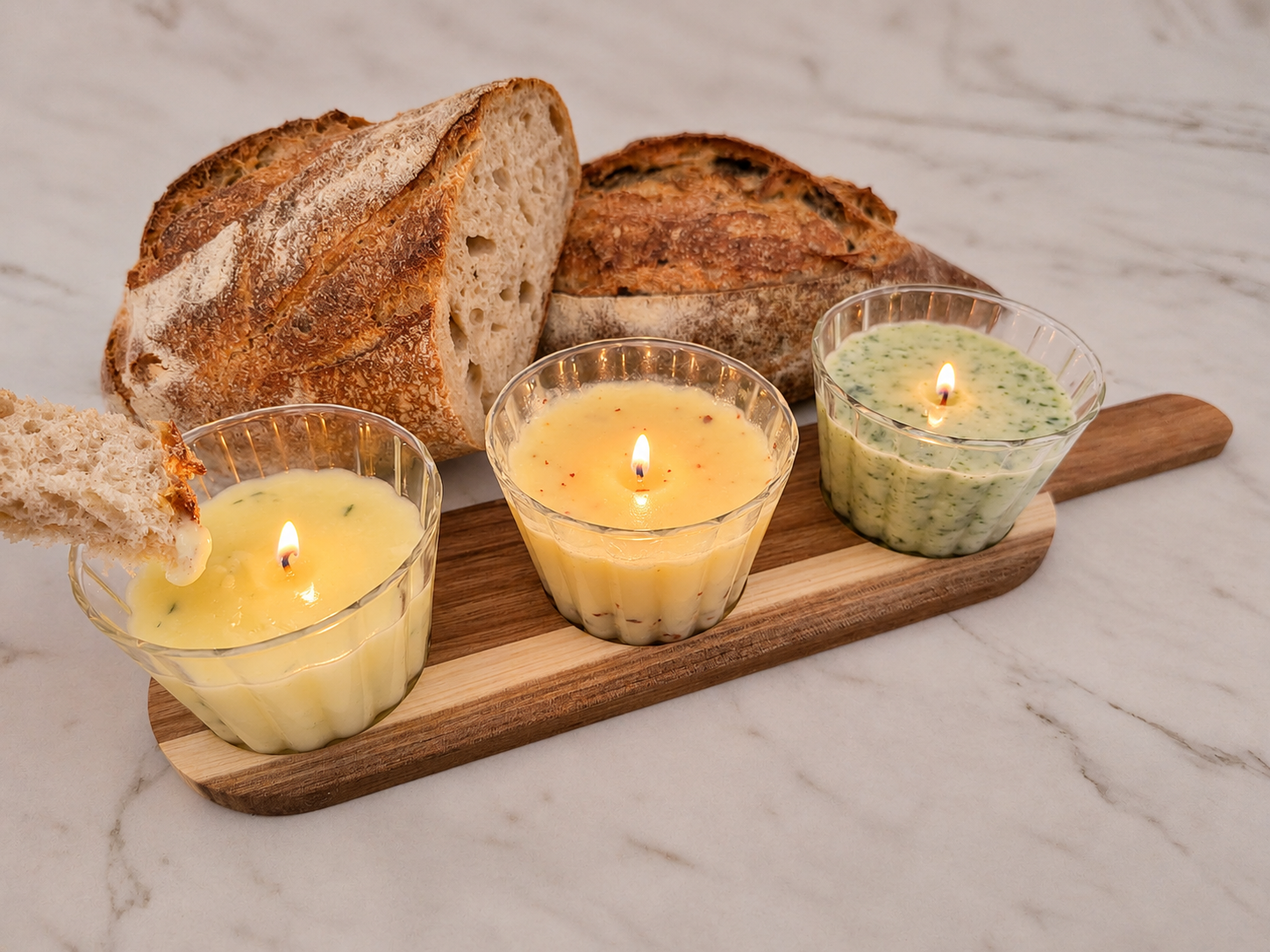
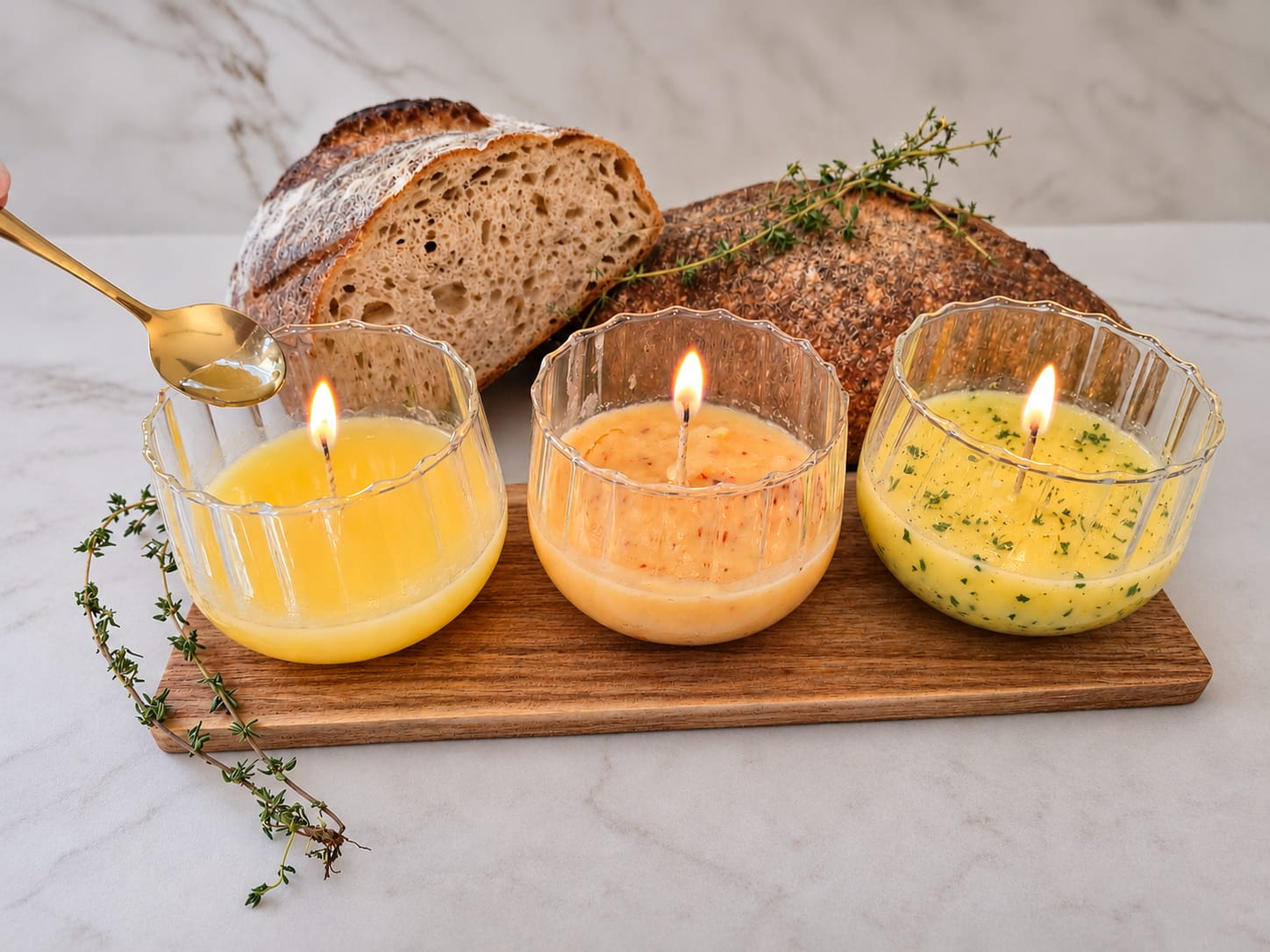
Update trio photo and product details

diff --git a/deploy/index.html b/deploy/index.html
@@ -198,7 +198,7 @@
     .pickup-select{min-height:48px;font-weight:600}
     @media(max-width:760px){.cart-row{grid-template-columns:minmax(0,1fr) auto auto;gap:8px}.cart-row-price{grid-column:auto}.cart-remove{font-size:12px}}
     @media(max-width:390px){.cart-row{grid-template-columns:minmax(0,1fr) auto}.cart-remove{grid-column:1 / -1;justify-self:start;padding:3px 0}}
-  .how-section{padding:16px 26px;background:var(--sage-dark);color:#fffaf1}.how-inner{max-width:900px;text-align:center;margin:auto}.how-section h2{color:#fffaf1;font-size:clamp(30px,3.4vw,38px);margin:0}.how-steps{display:grid;grid-template-columns:repeat(3,minmax(0,1fr));gap:22px;margin-top:12px}.how-step{display:flex;flex-direction:column;align-items:center;gap:7px}.how-icon{width:30px;height:30px;stroke:currentColor;stroke-width:1.6;stroke-linecap:round;stroke-linejoin:round}.how-step p{margin:0;color:#fffaf1;line-height:1.45;font-size:18px;font-weight:700}@media(max-width:760px){.how-section{padding:13px 19px}.how-section h2{font-size:29px}.how-steps{gap:8px;margin-top:10px}.how-icon{width:25px;height:25px}.how-step{gap:5px}.how-step p{font-size:15px;line-height:1.4}}</style>
+  .how-section{padding:16px 26px;background:var(--sage-dark);color:#fffaf1}.how-inner{max-width:900px;text-align:center;margin:auto}.how-section h2{color:#fffaf1;font-size:clamp(30px,3.4vw,38px);margin:0}.how-steps{display:grid;grid-template-columns:repeat(3,minmax(0,1fr));gap:22px;margin-top:12px}.how-step{display:flex;flex-direction:column;align-items:center;gap:7px}.how-icon{display:grid;place-items:center;width:30px;height:30px;border:1.5px solid currentColor;border-radius:50%;font-size:16px;font-weight:700;line-height:1}.how-step p{margin:0;color:#fffaf1;line-height:1.45;font-size:18px;font-weight:700}@media(max-width:760px){.how-section{padding:13px 19px}.how-section h2{font-size:29px}.how-steps{gap:8px;margin-top:10px}.how-icon{width:25px;height:25px;font-size:14px}.how-step{gap:5px}.how-step p{font-size:15px;line-height:1.4}}</style>
 </head>
 <body data-style="soft">
 <div class="site">
@@ -210,8 +210,8 @@
       <div class="hero-copy-wrap"><h1>מדליקים.<br><em>טובלים.</em><br>מתענגים.</h1><p class="hero-copy">נרות חמאה בעבודת יד, מחמאה אמיתית, עשבי תיבול טריים ותבלינים. תוספת מיוחדת לשולחן אירוח ומתנה טעימה להביא כשמתארחים.</p><div class="hero-actions"><a class="button" href="#boxes">לגלות את המארזים</a><a class="text-link" href="#how">איך זה עובד? ↓</a></div><div class="hero-note"><b>✦</b><span>מכינים בעבודת יד · מלאי מוגבל</span></div></div>
       <div class="hero-art hero-photo" aria-label="מארז זוג נרות חמאה"><img class="hero-photo-image" src="two-candles-photo.png" alt="מארז זוג נרות חמאה בעבודת יד עם לחם כפרי"><span class="hero-flame hero-flame-one" aria-hidden="true"></span><span class="hero-flame hero-flame-two" aria-hidden="true"></span><svg viewBox="0 0 520 430" role="img" aria-label="שלושה נרות חמאה עם עשבי תיבול"><ellipse cx="260" cy="363" rx="192" ry="24" fill="#755c37" opacity=".12"/><path d="M92 315h340l-20 35H112z" fill="#c8ad77"/><path d="M108 310h308v20H108z" fill="#f2e4bd" stroke="#c7b27f" stroke-width="2"/><g transform="translate(130 0)"><rect x="0" y="125" width="68" height="185" rx="15" fill="#f2cf6c"/><ellipse cx="34" cy="130" rx="34" ry="13" fill="#ffedab"/><path d="M34 124c-10-17 7-27 0-42 19 16 20 29 0 42" fill="#a64232"/><path d="M34 121c-4-10 4-14 1-20 9 9 5 15-1 20" fill="#f6a34f"/><g fill="#78865d"><ellipse cx="18" cy="193" rx="12" ry="5" transform="rotate(-27 18 193)"/><ellipse cx="48" cy="224" rx="12" ry="5" transform="rotate(31 48 224)"/><ellipse cx="20" cy="262" rx="12" ry="5" transform="rotate(-22 20 262)"/></g><path d="M15 203l39 45M50 228l-28 40" stroke="#6c7956" stroke-width="2"/></g><g transform="translate(226 0)"><rect x="0" y="92" width="72" height="218" rx="16" fill="#f6db83"/><ellipse cx="36" cy="98" rx="36" ry="14" fill="#fff0b9"/><path d="M36 91c-10-18 8-29 0-45 20 18 20 31 0 45" fill="#9c3e36"/><path d="M36 88c-4-10 4-14 1-20 9 9 5 15-1 20" fill="#f6a34f"/><g fill="#8b955e"><ellipse cx="19" cy="171" rx="12" ry="5" transform="rotate(-24 19 171)"/><ellipse cx="52" cy="211" rx="13" ry="5" transform="rotate(27 52 211)"/><ellipse cx="20" cy="259" rx="12" ry="5" transform="rotate(-25 20 259)"/></g><path d="M18 181l39 46M54 217l-31 49" stroke="#687650" stroke-width="2"/></g><g transform="translate(326 0)"><rect x="0" y="144" width="66" height="166" rx="15" fill="#efd080"/><ellipse cx="33" cy="149" rx="33" ry="12" fill="#ffedb1"/><path d="M33 143c-9-16 7-25 0-39 18 15 18 27 0 39" fill="#8c3340"/><path d="M33 140c-3-9 4-12 1-18 8 8 4 14-1 18" fill="#f6a34f"/><g fill="#79845b"><ellipse cx="15" cy="207" rx="12" cy="5" transform="rotate(-26 15 207)"/><ellipse cx="48" cy="242" rx="12" cy="5" transform="rotate(29 48 242)"/><ellipse cx="17" cy="277" rx="11" cy="5" transform="rotate(-18 17 277)"/></g><path d="M14 216l40 40M51 248l-30 38" stroke="#687650" stroke-width="2"/></g><circle cx="112" cy="131" r="7" fill="#fff5d4"/><circle cx="424" cy="179" r="5" fill="#fff5d4"/><path d="M431 87l5 11 11 5-11 5-5 11-5-11-11-5 11-5z" fill="#913e49"/></svg></div>
     </section>
-    <section class="section how-section" id="how"><div class="section-inner how-inner"><h2>איך זה עובד?</h2><div class="how-steps"><div class="how-step"><svg class="how-icon" viewBox="0 0 32 32" fill="none" aria-hidden="true"><path d="M16 3c-1 4-5 6-5 10a5 5 0 0 0 10 0c0-2-1-4-3-6 0 3-1 4-2 5-1-3 1-5 0-9Z"/><path d="M11 15h10v13H11zM9 28h14"/></svg><p>מדליקים את נר החמאה</p></div><div class="how-step"><svg class="how-icon" viewBox="0 0 32 32" fill="none" aria-hidden="true"><path d="M9 4h14M9 28h14M10 5c0 6 2 8 6 11-4 3-6 5-6 11M22 5c0 6-2 8-6 11 4 3 6 5 6 11"/><path d="M12 23h8M14 20h4"/></svg><p>מחכים טיפה שהיא תימס</p></div><div class="how-step"><svg class="how-icon" viewBox="0 0 32 32" fill="none" aria-hidden="true"><path d="M4 17c0-4 3-7 7-7 2-3 6-4 9-2 4 0 7 3 7 7v11H4V17Z"/><path d="M9 15c1-2 3-2 4 0M16 14c1-2 3-2 4 0M7 22h16M25 4 14 20M24 5l3 3"/></svg><p>טובלים סכין ומורחים על הלחם</p></div></div></div></section>
-    <section class="section products-section" id="boxes"><div class="section-inner"><div class="section-head"><div class="boxes-heading"><h2>בחרו מארז</h2><p class="box-includes">כל מארז כולל מגש עץ ונרות חמאה</p></div></div><div class="product-grid">
+    <section class="section how-section" id="how"><div class="section-inner how-inner"><h2>איך זה עובד?</h2><div class="how-steps"><div class="how-step"><span class="how-icon" aria-hidden="true">1</span><p>מדליקים את נר החמאה</p></div><div class="how-step"><span class="how-icon" aria-hidden="true">2</span><p>מחכים קצת שהחמאה תימס</p></div><div class="how-step"><span class="how-icon" aria-hidden="true">3</span><p>טובלים סכין ומורחים על הלחם</p></div></div></div></section>
+    <section class="section products-section" id="boxes"><div class="section-inner"><div class="section-head"><div class="boxes-heading"><h2>בחרו מארז</h2><p class="box-includes">כל מארז כולל מגש עץ, כפיות ונרות חמאה</p></div></div><div class="product-grid">
       <article class="product-card"><div class="product-image photo-ready photo-two"><span class="image-tag">מארז זוג נרות חמאה</span><img class="product-photo" src="two-candles-photo.png" alt="מארז שני נרות חמאה עם לחם כפרי לטבילה"><svg viewBox="0 0 420 270" role="img" aria-label="שני נרות חמאה עם עשבי תיבול"><ellipse cx="210" cy="239" rx="140" ry="14" fill="#755c37" opacity=".13"/><path d="M83 209h254l-14 22H97z" fill="#c8ad77"/><path d="M91 205h238v13H91z" fill="#f6e8c2" stroke="#c7b27f"/><g transform="translate(126 0)"><rect y="90" width="61" height="115" rx="13" fill="#efd17a"/><ellipse cx="30.5" cy="95" rx="30.5" ry="11" fill="#fff0b6"/><path d="M31 88c-9-14 6-23 0-35 16 13 16 24 0 35" fill="#9c3e36"/><g fill="#78865d"><ellipse cx="14" cy="143" rx="11" ry="4" transform="rotate(-25 14 143)"/><ellipse cx="45" cy="171" rx="11" ry="4" transform="rotate(24 45 171)"/></g><path d="M14 149l38 37M48 174l-29 29" stroke="#6c7956" stroke-width="2"/></g><g transform="translate(222 0)"><rect y="72" width="65" height="133" rx="13" fill="#f5d97e"/><ellipse cx="32.5" cy="77" rx="32.5" ry="11" fill="#fff1b9"/><path d="M33 70c-9-14 7-24 0-36 17 14 18 25 0 36" fill="#8c3340"/><g fill="#78865d"><ellipse cx="15" cy="130" rx="11" ry="4" transform="rotate(-25 15 130)"/><ellipse cx="48" cy="164" rx="11" ry="4" transform="rotate(24 48 164)"/></g><path d="M14 136l40 39M51 167l-30 35" stroke="#6c7956" stroke-width="2"/></g></svg></div><div class="product-details"><div class="product-titleline"><h3>מארז זוג נרות חמאה</h3><div class="price">₪120</div></div><div class="product-flavors"><b>הטעמים במארז</b><span>חמאת עשבי תיבול ושום</span><br><span>חמאת דבש וצ׳ילי</span></div><div class="product-bottom"><span class="small-note">2 נרות חמאה בעבודת יד<br>150 גרם בכל כלי · סה״כ 300 גרם</span><button class="button small order-link" data-product="pair">להזמנה</button></div></div></article>
       <article class="product-card"><div class="product-image photo-ready"><span class="image-tag">מארז שלישיית נרות חמאה</span><img class="product-photo" src="three-candles-photo.png" alt="מארז שלושה נרות חמאה עם לחם כפרי לטבילה"><svg viewBox="0 0 420 270" role="img" aria-label="שלושה נרות חמאה עם עשבי תיבול"><ellipse cx="210" cy="239" rx="150" ry="14" fill="#755c37" opacity=".13"/><path d="M66 209h288l-14 22H80z" fill="#c8ad77"/><path d="M75 205h270v13H75z" fill="#f6e8c2" stroke="#c7b27f"/><g transform="translate(94 0)"><rect y="107" width="54" height="98" rx="12" fill="#efd17a"/><ellipse cx="27" cy="111" rx="27" ry="10" fill="#fff0b6"/><path d="M27 105c-8-12 5-20 0-30 14 11 14 20 0 30" fill="#9c3e36"/><g fill="#78865d"><ellipse cx="13" cy="152" rx="10" ry="4" transform="rotate(-25 13 152)"/><ellipse cx="40" cy="177" rx="10" ry="4" transform="rotate(24 40 177)"/></g></g><g transform="translate(179 0)"><rect y="76" width="58" height="129" rx="12" fill="#f5d97e"/><ellipse cx="29" cy="81" rx="29" ry="10" fill="#fff1b9"/><path d="M29 74c-8-14 6-22 0-33 15 13 16 22 0 33" fill="#8c3340"/><g fill="#78865d"><ellipse cx="13" cy="134" rx="10" cy="4" transform="rotate(-25 13 134)"/><ellipse cx="43" cy="168" rx="10" cy="4" transform="rotate(24 43 168)"/></g></g><g transform="translate(269 0)"><rect y="96" width="54" height="109" rx="12" fill="#edcf70"/><ellipse cx="27" cy="101" rx="27" ry="10" fill="#fff0b6"/><path d="M27 95c-8-13 6-21 0-31 15 12 15 21 0 31" fill="#9c3e36"/><g fill="#78865d"><ellipse cx="12" cy="144" rx="10" cy="4" transform="rotate(-25 12 144)"/><ellipse cx="40" cy="173" rx="10" cy="4" transform="rotate(24 40 173)"/></g></g></svg></div><div class="product-details"><div class="product-titleline"><h3>מארז שלישיית נרות חמאה</h3><div class="price">₪150</div></div><div class="product-flavors"><b>הטעמים במארז</b><span>חמאת עשבי תיבול ושום</span><br><span>חמאת דבש וצ׳ילי</span><br><span>חמאת טימין ותפוז</span></div><div class="product-bottom"><span class="small-note">3 נרות חמאה בעבודת יד<br>150 גרם בכל כלי · סה״כ 450 גרם</span><button class="button small order-link" data-product="trio">להזמנה</button></div></div></article>
     </div><div class="boxes-contact-wrap"><a class="brand-contact boxes-contact" href="https://wa.me/972523300080" target="_blank" rel="noopener" aria-label="לפרטים נוספים בוואטסאפ"><svg viewBox="0 0 32 32" aria-hidden="true"><path d="M16.02 3C8.86 3 3.04 8.78 3.04 15.9c0 2.28.6 4.5 1.74 6.46L3 29l6.84-1.78a13.1 13.1 0 0 0 6.18 1.57h.01c7.15 0 12.97-5.79 12.97-12.9 0-3.45-1.35-6.69-3.81-9.13A12.9 12.9 0 0 0 16.02 3Zm0 23.6h-.01c-1.9 0-3.76-.51-5.38-1.48l-.39-.23-4.06 1.06 1.08-3.95-.25-.4a10.68 10.68 0 0 1-1.64-5.7c0-5.88 4.8-10.66 10.67-10.66 2.84 0 5.52 1.1 7.53 3.12a10.57 10.57 0 0 1 3.12 7.54c0 5.88-4.8 10.66-10.67 10.66Zm5.86-7.98c-.32-.16-1.9-.93-2.2-1.04-.3-.1-.52-.16-.74.16-.22.32-.84 1.04-1.03 1.26-.19.21-.38.24-.7.08-.32-.16-1.35-.5-2.58-1.6-.95-.84-1.6-1.88-1.79-2.2-.18-.32-.02-.49.14-.65.14-.14.32-.37.48-.55.16-.19.22-.32.32-.53.11-.22.06-.4-.02-.56-.08-.16-.73-1.75-1-2.4-.26-.62-.53-.53-.73-.54l-.62-.01c-.22 0-.57.08-.87.4-.3.32-1.14 1.1-1.14 2.68s1.17 3.1 1.33 3.31c.16.22 2.3 3.5 5.57 4.9.78.34 1.39.55 1.86.7.78.25 1.48.22 2.03.13.62-.09 1.9-.78 2.17-1.53.27-.75.27-1.4.19-1.53-.08-.14-.3-.22-.62-.38Z"/></svg><span>לפרטים נוספים</span><span>052-330-0080</span></a></div></div></section>

diff --git a/index.html b/index.html
@@ -198,7 +198,7 @@
     .pickup-select{min-height:48px;font-weight:600}
     @media(max-width:760px){.cart-row{grid-template-columns:minmax(0,1fr) auto auto;gap:8px}.cart-row-price{grid-column:auto}.cart-remove{font-size:12px}}
     @media(max-width:390px){.cart-row{grid-template-columns:minmax(0,1fr) auto}.cart-remove{grid-column:1 / -1;justify-self:start;padding:3px 0}}
-  .how-section{padding:16px 26px;background:var(--sage-dark);color:#fffaf1}.how-inner{max-width:900px;text-align:center;margin:auto}.how-section h2{color:#fffaf1;font-size:clamp(30px,3.4vw,38px);margin:0}.how-steps{display:grid;grid-template-columns:repeat(3,minmax(0,1fr));gap:22px;margin-top:12px}.how-step{display:flex;flex-direction:column;align-items:center;gap:7px}.how-icon{width:30px;height:30px;stroke:currentColor;stroke-width:1.6;stroke-linecap:round;stroke-linejoin:round}.how-step p{margin:0;color:#fffaf1;line-height:1.45;font-size:18px;font-weight:700}@media(max-width:760px){.how-section{padding:13px 19px}.how-section h2{font-size:29px}.how-steps{gap:8px;margin-top:10px}.how-icon{width:25px;height:25px}.how-step{gap:5px}.how-step p{font-size:15px;line-height:1.4}}</style>
+  .how-section{padding:16px 26px;background:var(--sage-dark);color:#fffaf1}.how-inner{max-width:900px;text-align:center;margin:auto}.how-section h2{color:#fffaf1;font-size:clamp(30px,3.4vw,38px);margin:0}.how-steps{display:grid;grid-template-columns:repeat(3,minmax(0,1fr));gap:22px;margin-top:12px}.how-step{display:flex;flex-direction:column;align-items:center;gap:7px}.how-icon{display:grid;place-items:center;width:30px;height:30px;border:1.5px solid currentColor;border-radius:50%;font-size:16px;font-weight:700;line-height:1}.how-step p{margin:0;color:#fffaf1;line-height:1.45;font-size:18px;font-weight:700}@media(max-width:760px){.how-section{padding:13px 19px}.how-section h2{font-size:29px}.how-steps{gap:8px;margin-top:10px}.how-icon{width:25px;height:25px;font-size:14px}.how-step{gap:5px}.how-step p{font-size:15px;line-height:1.4}}</style>
 </head>
 <body data-style="soft">
 <div class="site">
@@ -210,8 +210,8 @@
       <div class="hero-copy-wrap"><h1>מדליקים.<br><em>טובלים.</em><br>מתענגים.</h1><p class="hero-copy">נרות חמאה בעבודת יד, מחמאה אמיתית, עשבי תיבול טריים ותבלינים. תוספת מיוחדת לשולחן אירוח ומתנה טעימה להביא כשמתארחים.</p><div class="hero-actions"><a class="button" href="#boxes">לגלות את המארזים</a><a class="text-link" href="#how">איך זה עובד? ↓</a></div><div class="hero-note"><b>✦</b><span>מכינים בעבודת יד · מלאי מוגבל</span></div></div>
       <div class="hero-art hero-photo" aria-label="מארז זוג נרות חמאה"><img class="hero-photo-image" src="two-candles-photo.png" alt="מארז זוג נרות חמאה בעבודת יד עם לחם כפרי"><span class="hero-flame hero-flame-one" aria-hidden="true"></span><span class="hero-flame hero-flame-two" aria-hidden="true"></span><svg viewBox="0 0 520 430" role="img" aria-label="שלושה נרות חמאה עם עשבי תיבול"><ellipse cx="260" cy="363" rx="192" ry="24" fill="#755c37" opacity=".12"/><path d="M92 315h340l-20 35H112z" fill="#c8ad77"/><path d="M108 310h308v20H108z" fill="#f2e4bd" stroke="#c7b27f" stroke-width="2"/><g transform="translate(130 0)"><rect x="0" y="125" width="68" height="185" rx="15" fill="#f2cf6c"/><ellipse cx="34" cy="130" rx="34" ry="13" fill="#ffedab"/><path d="M34 124c-10-17 7-27 0-42 19 16 20 29 0 42" fill="#a64232"/><path d="M34 121c-4-10 4-14 1-20 9 9 5 15-1 20" fill="#f6a34f"/><g fill="#78865d"><ellipse cx="18" cy="193" rx="12" ry="5" transform="rotate(-27 18 193)"/><ellipse cx="48" cy="224" rx="12" ry="5" transform="rotate(31 48 224)"/><ellipse cx="20" cy="262" rx="12" ry="5" transform="rotate(-22 20 262)"/></g><path d="M15 203l39 45M50 228l-28 40" stroke="#6c7956" stroke-width="2"/></g><g transform="translate(226 0)"><rect x="0" y="92" width="72" height="218" rx="16" fill="#f6db83"/><ellipse cx="36" cy="98" rx="36" ry="14" fill="#fff0b9"/><path d="M36 91c-10-18 8-29 0-45 20 18 20 31 0 45" fill="#9c3e36"/><path d="M36 88c-4-10 4-14 1-20 9 9 5 15-1 20" fill="#f6a34f"/><g fill="#8b955e"><ellipse cx="19" cy="171" rx="12" ry="5" transform="rotate(-24 19 171)"/><ellipse cx="52" cy="211" rx="13" ry="5" transform="rotate(27 52 211)"/><ellipse cx="20" cy="259" rx="12" ry="5" transform="rotate(-25 20 259)"/></g><path d="M18 181l39 46M54 217l-31 49" stroke="#687650" stroke-width="2"/></g><g transform="translate(326 0)"><rect x="0" y="144" width="66" height="166" rx="15" fill="#efd080"/><ellipse cx="33" cy="149" rx="33" ry="12" fill="#ffedb1"/><path d="M33 143c-9-16 7-25 0-39 18 15 18 27 0 39" fill="#8c3340"/><path d="M33 140c-3-9 4-12 1-18 8 8 4 14-1 18" fill="#f6a34f"/><g fill="#79845b"><ellipse cx="15" cy="207" rx="12" cy="5" transform="rotate(-26 15 207)"/><ellipse cx="48" cy="242" rx="12" cy="5" transform="rotate(29 48 242)"/><ellipse cx="17" cy="277" rx="11" cy="5" transform="rotate(-18 17 277)"/></g><path d="M14 216l40 40M51 248l-30 38" stroke="#687650" stroke-width="2"/></g><circle cx="112" cy="131" r="7" fill="#fff5d4"/><circle cx="424" cy="179" r="5" fill="#fff5d4"/><path d="M431 87l5 11 11 5-11 5-5 11-5-11-11-5 11-5z" fill="#913e49"/></svg></div>
     </section>
-    <section class="section how-section" id="how"><div class="section-inner how-inner"><h2>איך זה עובד?</h2><div class="how-steps"><div class="how-step"><svg class="how-icon" viewBox="0 0 32 32" fill="none" aria-hidden="true"><path d="M16 3c-1 4-5 6-5 10a5 5 0 0 0 10 0c0-2-1-4-3-6 0 3-1 4-2 5-1-3 1-5 0-9Z"/><path d="M11 15h10v13H11zM9 28h14"/></svg><p>מדליקים את נר החמאה</p></div><div class="how-step"><svg class="how-icon" viewBox="0 0 32 32" fill="none" aria-hidden="true"><path d="M9 4h14M9 28h14M10 5c0 6 2 8 6 11-4 3-6 5-6 11M22 5c0 6-2 8-6 11 4 3 6 5 6 11"/><path d="M12 23h8M14 20h4"/></svg><p>מחכים טיפה שהיא תימס</p></div><div class="how-step"><svg class="how-icon" viewBox="0 0 32 32" fill="none" aria-hidden="true"><path d="M4 17c0-4 3-7 7-7 2-3 6-4 9-2 4 0 7 3 7 7v11H4V17Z"/><path d="M9 15c1-2 3-2 4 0M16 14c1-2 3-2 4 0M7 22h16M25 4 14 20M24 5l3 3"/></svg><p>טובלים סכין ומורחים על הלחם</p></div></div></div></section>
-    <section class="section products-section" id="boxes"><div class="section-inner"><div class="section-head"><div class="boxes-heading"><h2>בחרו מארז</h2><p class="box-includes">כל מארז כולל מגש עץ ונרות חמאה</p></div></div><div class="product-grid">
+    <section class="section how-section" id="how"><div class="section-inner how-inner"><h2>איך זה עובד?</h2><div class="how-steps"><div class="how-step"><span class="how-icon" aria-hidden="true">1</span><p>מדליקים את נר החמאה</p></div><div class="how-step"><span class="how-icon" aria-hidden="true">2</span><p>מחכים קצת שהחמאה תימס</p></div><div class="how-step"><span class="how-icon" aria-hidden="true">3</span><p>טובלים סכין ומורחים על הלחם</p></div></div></div></section>
+    <section class="section products-section" id="boxes"><div class="section-inner"><div class="section-head"><div class="boxes-heading"><h2>בחרו מארז</h2><p class="box-includes">כל מארז כולל מגש עץ, כפיות ונרות חמאה</p></div></div><div class="product-grid">
       <article class="product-card"><div class="product-image photo-ready photo-two"><span class="image-tag">מארז זוג נרות חמאה</span><img class="product-photo" src="two-candles-photo.png" alt="מארז שני נרות חמאה עם לחם כפרי לטבילה"><svg viewBox="0 0 420 270" role="img" aria-label="שני נרות חמאה עם עשבי תיבול"><ellipse cx="210" cy="239" rx="140" ry="14" fill="#755c37" opacity=".13"/><path d="M83 209h254l-14 22H97z" fill="#c8ad77"/><path d="M91 205h238v13H91z" fill="#f6e8c2" stroke="#c7b27f"/><g transform="translate(126 0)"><rect y="90" width="61" height="115" rx="13" fill="#efd17a"/><ellipse cx="30.5" cy="95" rx="30.5" ry="11" fill="#fff0b6"/><path d="M31 88c-9-14 6-23 0-35 16 13 16 24 0 35" fill="#9c3e36"/><g fill="#78865d"><ellipse cx="14" cy="143" rx="11" ry="4" transform="rotate(-25 14 143)"/><ellipse cx="45" cy="171" rx="11" ry="4" transform="rotate(24 45 171)"/></g><path d="M14 149l38 37M48 174l-29 29" stroke="#6c7956" stroke-width="2"/></g><g transform="translate(222 0)"><rect y="72" width="65" height="133" rx="13" fill="#f5d97e"/><ellipse cx="32.5" cy="77" rx="32.5" ry="11" fill="#fff1b9"/><path d="M33 70c-9-14 7-24 0-36 17 14 18 25 0 36" fill="#8c3340"/><g fill="#78865d"><ellipse cx="15" cy="130" rx="11" ry="4" transform="rotate(-25 15 130)"/><ellipse cx="48" cy="164" rx="11" ry="4" transform="rotate(24 48 164)"/></g><path d="M14 136l40 39M51 167l-30 35" stroke="#6c7956" stroke-width="2"/></g></svg></div><div class="product-details"><div class="product-titleline"><h3>מארז זוג נרות חמאה</h3><div class="price">₪120</div></div><div class="product-flavors"><b>הטעמים במארז</b><span>חמאת עשבי תיבול ושום</span><br><span>חמאת דבש וצ׳ילי</span></div><div class="product-bottom"><span class="small-note">2 נרות חמאה בעבודת יד<br>150 גרם בכל כלי · סה״כ 300 גרם</span><button class="button small order-link" data-product="pair">להזמנה</button></div></div></article>
       <article class="product-card"><div class="product-image photo-ready"><span class="image-tag">מארז שלישיית נרות חמאה</span><img class="product-photo" src="three-candles-photo.png" alt="מארז שלושה נרות חמאה עם לחם כפרי לטבילה"><svg viewBox="0 0 420 270" role="img" aria-label="שלושה נרות חמאה עם עשבי תיבול"><ellipse cx="210" cy="239" rx="150" ry="14" fill="#755c37" opacity=".13"/><path d="M66 209h288l-14 22H80z" fill="#c8ad77"/><path d="M75 205h270v13H75z" fill="#f6e8c2" stroke="#c7b27f"/><g transform="translate(94 0)"><rect y="107" width="54" height="98" rx="12" fill="#efd17a"/><ellipse cx="27" cy="111" rx="27" ry="10" fill="#fff0b6"/><path d="M27 105c-8-12 5-20 0-30 14 11 14 20 0 30" fill="#9c3e36"/><g fill="#78865d"><ellipse cx="13" cy="152" rx="10" ry="4" transform="rotate(-25 13 152)"/><ellipse cx="40" cy="177" rx="10" ry="4" transform="rotate(24 40 177)"/></g></g><g transform="translate(179 0)"><rect y="76" width="58" height="129" rx="12" fill="#f5d97e"/><ellipse cx="29" cy="81" rx="29" ry="10" fill="#fff1b9"/><path d="M29 74c-8-14 6-22 0-33 15 13 16 22 0 33" fill="#8c3340"/><g fill="#78865d"><ellipse cx="13" cy="134" rx="10" cy="4" transform="rotate(-25 13 134)"/><ellipse cx="43" cy="168" rx="10" cy="4" transform="rotate(24 43 168)"/></g></g><g transform="translate(269 0)"><rect y="96" width="54" height="109" rx="12" fill="#edcf70"/><ellipse cx="27" cy="101" rx="27" ry="10" fill="#fff0b6"/><path d="M27 95c-8-13 6-21 0-31 15 12 15 21 0 31" fill="#9c3e36"/><g fill="#78865d"><ellipse cx="12" cy="144" rx="10" cy="4" transform="rotate(-25 12 144)"/><ellipse cx="40" cy="173" rx="10" cy="4" transform="rotate(24 40 173)"/></g></g></svg></div><div class="product-details"><div class="product-titleline"><h3>מארז שלישיית נרות חמאה</h3><div class="price">₪150</div></div><div class="product-flavors"><b>הטעמים במארז</b><span>חמאת עשבי תיבול ושום</span><br><span>חמאת דבש וצ׳ילי</span><br><span>חמאת טימין ותפוז</span></div><div class="product-bottom"><span class="small-note">3 נרות חמאה בעבודת יד<br>150 גרם בכל כלי · סה״כ 450 גרם</span><button class="button small order-link" data-product="trio">להזמנה</button></div></div></article>
     </div><div class="boxes-contact-wrap"><a class="brand-contact boxes-contact" href="https://wa.me/972523300080" target="_blank" rel="noopener" aria-label="לפרטים נוספים בוואטסאפ"><svg viewBox="0 0 32 32" aria-hidden="true"><path d="M16.02 3C8.86 3 3.04 8.78 3.04 15.9c0 2.28.6 4.5 1.74 6.46L3 29l6.84-1.78a13.1 13.1 0 0 0 6.18 1.57h.01c7.15 0 12.97-5.79 12.97-12.9 0-3.45-1.35-6.69-3.81-9.13A12.9 12.9 0 0 0 16.02 3Zm0 23.6h-.01c-1.9 0-3.76-.51-5.38-1.48l-.39-.23-4.06 1.06 1.08-3.95-.25-.4a10.68 10.68 0 0 1-1.64-5.7c0-5.88 4.8-10.66 10.67-10.66 2.84 0 5.52 1.1 7.53 3.12a10.57 10.57 0 0 1 3.12 7.54c0 5.88-4.8 10.66-10.67 10.66Zm5.86-7.98c-.32-.16-1.9-.93-2.2-1.04-.3-.1-.52-.16-.74.16-.22.32-.84 1.04-1.03 1.26-.19.21-.38.24-.7.08-.32-.16-1.35-.5-2.58-1.6-.95-.84-1.6-1.88-1.79-2.2-.18-.32-.02-.49.14-.65.14-.14.32-.37.48-.55.16-.19.22-.32.32-.53.11-.22.06-.4-.02-.56-.08-.16-.73-1.75-1-2.4-.26-.62-.53-.53-.73-.54l-.62-.01c-.22 0-.57.08-.87.4-.3.32-1.14 1.1-1.14 2.68s1.17 3.1 1.33 3.31c.16.22 2.3 3.5 5.57 4.9.78.34 1.39.55 1.86.7.78.25 1.48.22 2.03.13.62-.09 1.9-.78 2.17-1.53.27-.75.27-1.4.19-1.53-.08-.14-.3-.22-.62-.38Z"/></svg><span>לפרטים נוספים</span><span>052-330-0080</span></a></div></div></section>
